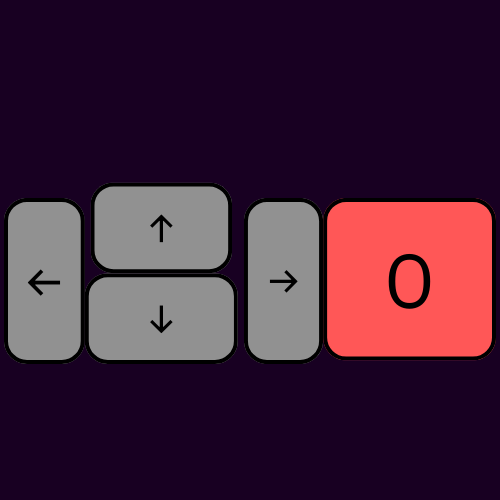
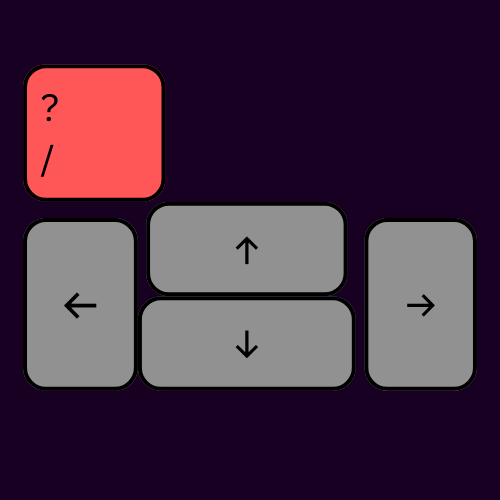
changed punch to / key

diff --git a/index.html b/index.html
@@ -93,7 +93,7 @@
     </div>
     <div class="block-labels">
         <h3>Player 2</h3>
-        <p>Use arrows for moving, 0/insert for punching</p>
+        <p>Use arrows for moving, ?/ key for punching</p>
         <image src="arrows.png"></image>
     </div>
     <div class="block">

diff --git a/finalJS.js b/finalJS.js
@@ -58,7 +58,7 @@ class Fighter {
             
 
         } else {
-            this.keys = [37,39,38,40,45];
+            this.keys = [37,39,38,40,191];
             this.color = "blue";
             this.health_coord = [775, 60, .2];
             
